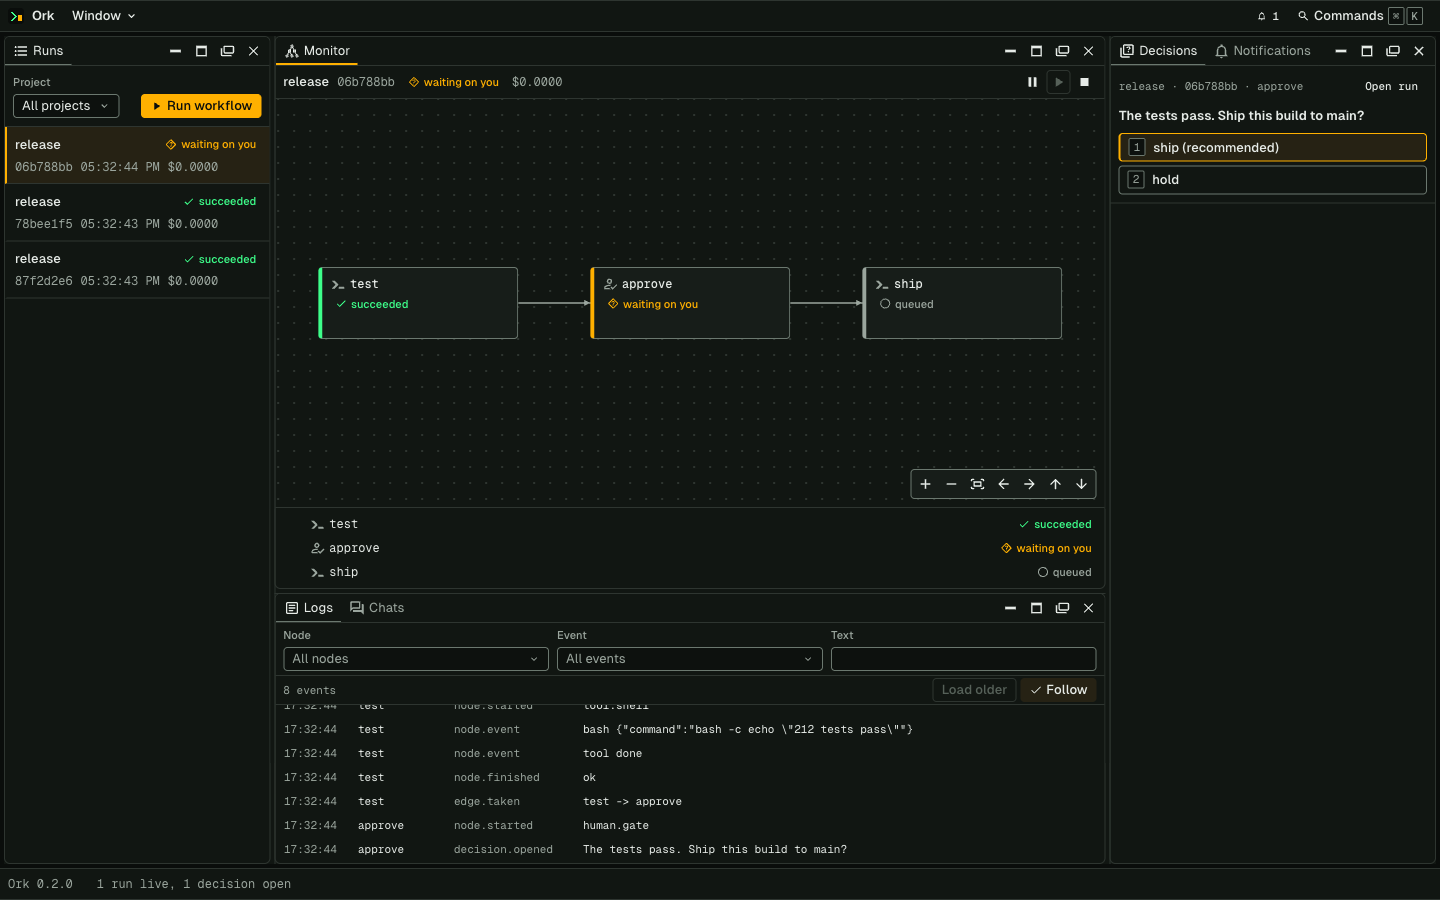
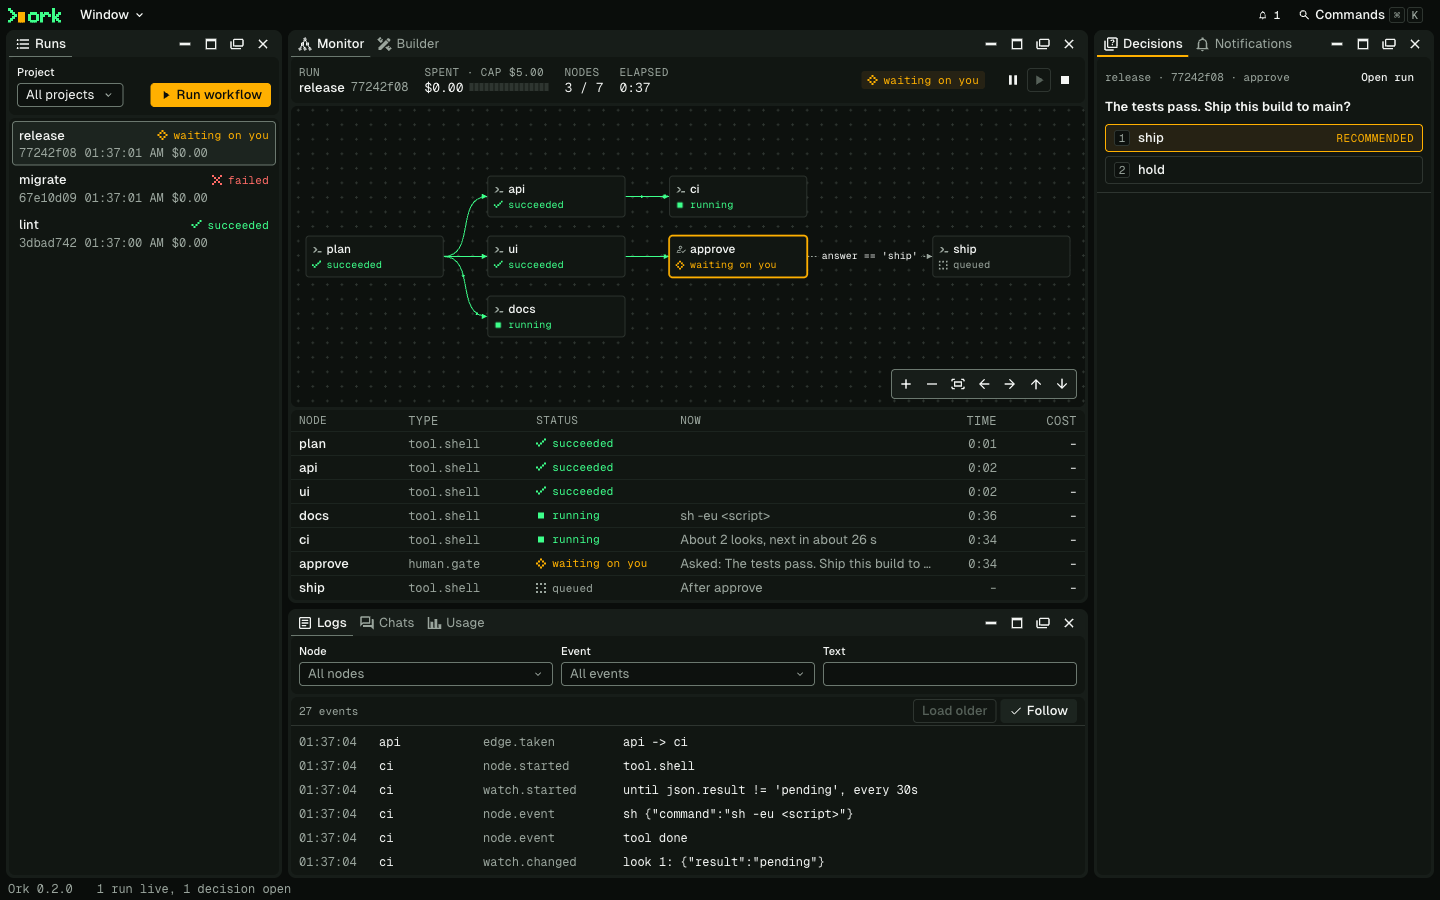
Finish the new look in Notifications and the Builder
Notifications rows are shorter: status and time share a line with the
actions, so a read row is about 52 px instead of 73.

The Builder's toolbar, palette, canvas, problems and inspector are cards
in a frame, like the other panels. The palette and inspector widths are
now percentages, which gives the canvas 393 px instead of 216 at a
normal panel width.

The browser guide's screenshots show the new look in both themes, taken
from a throwaway run.

diff --git a/packages/ui/src/builder/builder.module.css b/packages/ui/src/builder/builder.module.css
@@ -1,25 +1,33 @@
 /**
- * @file The look of the workflow builder: the palette, the canvas and the
- *   inspector side by side, stacking when the panel is narrow. A field with a
+ * @file The look of the workflow builder: a frame holding a card each for the
+ *   tools, the palette, the canvas and the inspector, side by side, stacking when
+ *   the panel is narrow. A field with a
  *   problem has a line down its edge and the problem in words, so it reads
  *   without color.
  */
 
 .panel {
+  --builder-panel-bg: var(--surface-frame);
+  --builder-panel-gap: var(--space-3);
+
+  background: var(--builder-panel-bg);
   container-type: inline-size;
   display: flex;
   flex-direction: column;
+  gap: var(--builder-panel-gap);
   height: 100%;
   min-height: 0;
 }
 
 .tools {
-  --builder-tools-border-block-end: var(--hairline) solid var(--color-border);
+  --builder-tools-bg: var(--surface-panel);
+  --builder-tools-radius: var(--radius-panel);
   --builder-tools-gap: var(--gap);
   --builder-tools-padding: var(--inset-tools);
 
   align-items: flex-end;
-  border-block-end: var(--builder-tools-border-block-end);
+  background: var(--builder-tools-bg);
+  border-radius: var(--builder-tools-radius);
   display: flex;
   flex-wrap: wrap;
   gap: var(--builder-tools-gap);
@@ -44,15 +52,15 @@
  * message coming or going doesn't move the canvas.
  */
 .notices {
-  --builder-notices-border-block-end: var(--hairline) solid var(--color-border);
+  --builder-notices-text: var(--color-text);
   --builder-notices-text-size: var(--text-small);
   --builder-notices-gap: var(--gap-tight) var(--gap-loose);
   --builder-notices-leading: var(--leading-ui);
   --builder-notices-min-height: calc(1lh + var(--gap) * 2);
-  --builder-notices-padding: var(--gap) var(--inset-panel);
+  --builder-notices-padding: var(--gap);
 
   align-items: baseline;
-  border-block-end: var(--builder-notices-border-block-end);
+  color: var(--builder-notices-text);
   display: flex;
   flex-wrap: wrap;
   font-size: var(--builder-notices-text-size);
@@ -79,15 +87,27 @@
   overflow-wrap: anywhere;
 }
 
+.empty {
+  --builder-empty-bg: var(--surface-panel);
+  --builder-empty-radius: var(--radius-panel);
+
+  background: var(--builder-empty-bg);
+  border-radius: var(--builder-empty-radius);
+  flex: 1;
+  min-height: 0;
+}
+
 .body {
   --builder-body-overflow-y: initial;
   --builder-body-flex-direction: initial;
   --builder-body-display: grid;
-  --builder-body-grid-template-columns: minmax(10rem, 13rem) minmax(0, 1fr)
-    minmax(16rem, 24rem);
+  --builder-body-gap: var(--space-3);
+  --builder-body-grid-template-columns: minmax(10rem, 12%) minmax(0, 1fr)
+    minmax(16rem, 30%);
 
   display: var(--builder-body-display);
   flex: 1;
+  gap: var(--builder-body-gap);
   grid-template-columns: var(--builder-body-grid-template-columns);
   min-height: 0;
   flex-direction: var(--builder-body-flex-direction, revert);
@@ -96,44 +116,26 @@
 
 .palette,
 .inspector {
+  --builder-palette-bg: var(--surface-panel);
+  --builder-palette-radius: var(--radius-panel);
   --builder-palette-overflow-y: auto;
   --builder-palette-padding: var(--inset-panel);
 
+  background: var(--builder-palette-bg);
+  border-radius: var(--builder-palette-radius);
   min-height: 0;
   overflow-y: var(--builder-palette-overflow-y);
   padding: var(--builder-palette-padding);
 }
 
+.palette,
 .inspector {
   --builder-palette-flex: initial;
-  --builder-palette-border-block-end: initial;
-  --builder-palette-border: initial;
 
-  border: var(--builder-palette-border, revert);
-  border-block-end: var(--builder-palette-border-block-end, revert);
   flex: var(--builder-palette-flex, revert);
 }
 
-.palette {
-  --builder-palette-flex: initial;
-  --builder-palette-border-block-end: initial;
-  --builder-palette-border: initial;
-
-  border: var(--builder-palette-border, revert);
-  border-block-end: var(--builder-palette-border-block-end, revert);
-  flex: var(--builder-palette-flex, revert);
-}
-
-.palette {
-  --builder-palette-border-inline-end: var(--hairline) solid var(--color-border);
-
-  border-inline-end: var(--builder-palette-border-inline-end);
-}
-
 .inspector {
-  --builder-palette-border-inline-start: var(--hairline) solid
-    var(--color-border);
-  border-inline-start: var(--builder-palette-border-inline-start);
   /* Holds words kept for screen readers, or they'd stretch the panel. */
   position: relative;
 }
@@ -141,9 +143,11 @@
 .middle {
   --builder-middle-height: initial;
   --builder-middle-flex: initial;
+  --builder-middle-gap: var(--space-3);
 
   display: flex;
   flex-direction: column;
+  gap: var(--builder-middle-gap);
   min-height: 0;
   min-width: 0;
   flex: var(--builder-middle-flex, revert);
@@ -151,8 +155,12 @@
 }
 
 .canvas {
+  --builder-canvas-radius: var(--radius-panel);
+
+  border-radius: var(--builder-canvas-radius);
   flex: 1;
   min-height: 0;
+  overflow: hidden;
   position: relative;
 }
 
@@ -162,11 +170,12 @@
 
 .problems,
 .clean {
-  --builder-problems-border-block-start: var(--hairline) solid
-    var(--color-border);
+  --builder-problems-bg: var(--surface-panel);
+  --builder-problems-radius: var(--radius-panel);
   --builder-problems-padding: var(--gap) var(--inset-panel);
 
-  border-block-start: var(--builder-problems-border-block-start);
+  background: var(--builder-problems-bg);
+  border-radius: var(--builder-problems-radius);
   display: block;
   padding: var(--builder-problems-padding);
 }
@@ -457,9 +466,6 @@
 
   .palette,
   .inspector {
-    --builder-palette-border: 0;
-    --builder-palette-border-block-end: var(--hairline) solid
-      var(--color-border);
     --builder-palette-flex: none;
     --builder-palette-overflow-y: visible;
   }

diff --git a/packages/ui/src/panels/notifications.module.css b/packages/ui/src/panels/notifications.module.css
@@ -63,11 +63,11 @@
 .item {
   --notifications-item-bg: initial;
   --notifications-item-border-block-end: var(--hairline) solid
-    var(--color-border);
+    var(--color-border-soft);
   --notifications-item-border-inline-start-width: var(--focus-width);
   --notifications-item-border-inline-start-style: solid;
   --notifications-item-border-inline-start-color: transparent;
-  --notifications-item-gap: var(--gap-hair);
+  --notifications-item-gap: 0 var(--gap);
   --notifications-item-padding: var(--gap-tight) var(--gap);
 
   border-block-end: var(--notifications-item-border-block-end);
@@ -80,8 +80,9 @@
   border-inline-start-color: var(
     --notifications-item-border-inline-start-color
   );
+  align-items: center;
   display: flex;
-  flex-direction: column;
+  flex-wrap: wrap;
   gap: var(--notifications-item-gap);
   padding: var(--notifications-item-padding);
   background: var(--notifications-item-bg, revert);
@@ -95,6 +96,7 @@
 .title {
   --notifications-title-weight: initial;
 
+  flex-basis: 100%;
   margin: 0;
   overflow-wrap: anywhere;
   font-weight: var(--notifications-title-weight, revert);
@@ -113,11 +115,13 @@
   align-items: center;
   color: var(--notifications-meta-text);
   display: flex;
+  flex: 1;
   flex-wrap: wrap;
   font-family: var(--notifications-meta-font);
   font-size: var(--notifications-meta-text-size);
   gap: var(--notifications-meta-gap);
   margin: 0;
+  min-width: 0;
 }
 
 .unread {

diff --git a/packages/ui/src/builder/builder-body.tsx b/packages/ui/src/builder/builder-body.tsx
@@ -62,11 +62,13 @@ export const BuilderBody = ({ builder }: { builder: Builder }) => {
   const { view } = builder;
   if (view === null) {
     return (
-      <EmptyState title="No workflow open.">
-        Choose one above, or name a new one. A workflow you make here is the
-        same file you could write by hand, and works with every <code>ork</code>{" "}
-        command.
-      </EmptyState>
+      <div className={styles["empty"]}>
+        <EmptyState title="No workflow open.">
+          Choose one above, or name a new one. A workflow you make here is the
+          same file you could write by hand, and works with every{" "}
+          <code>ork</code> command.
+        </EmptyState>
+      </div>
     );
   }
   return (

diff --git a/docs/guides/browser-view.md b/docs/guides/browser-view.md
@@ -6,7 +6,7 @@ you, and what each node has said. It reads and writes the same store as the
 here has a command that does the same. The contract is the
 [UI spec](../../specs/ui.md).
 
-![Ork's workspace: the Runs panel, the Monitor with a run's graph and ownership tree, Logs below it, and an open decision in the Decisions panel.](./images/browser-view-dark.png)
+![Ork's workspace: the Runs panel, the Monitor with a run's graph and node table, Logs below it, and an open decision in the Decisions panel.](./images/browser-view-dark.png)
 
 ## Starting it
 

diff --git a/.changeset/console-finish.md b/.changeset/console-finish.md
@@ -1,0 +1,6 @@
+---
+"@krapht/ork": patch
+---
+
+The Builder's tools, palette, canvas and inspector are now cards in a frame,
+like the other panels, and Notifications rows are shorter.
